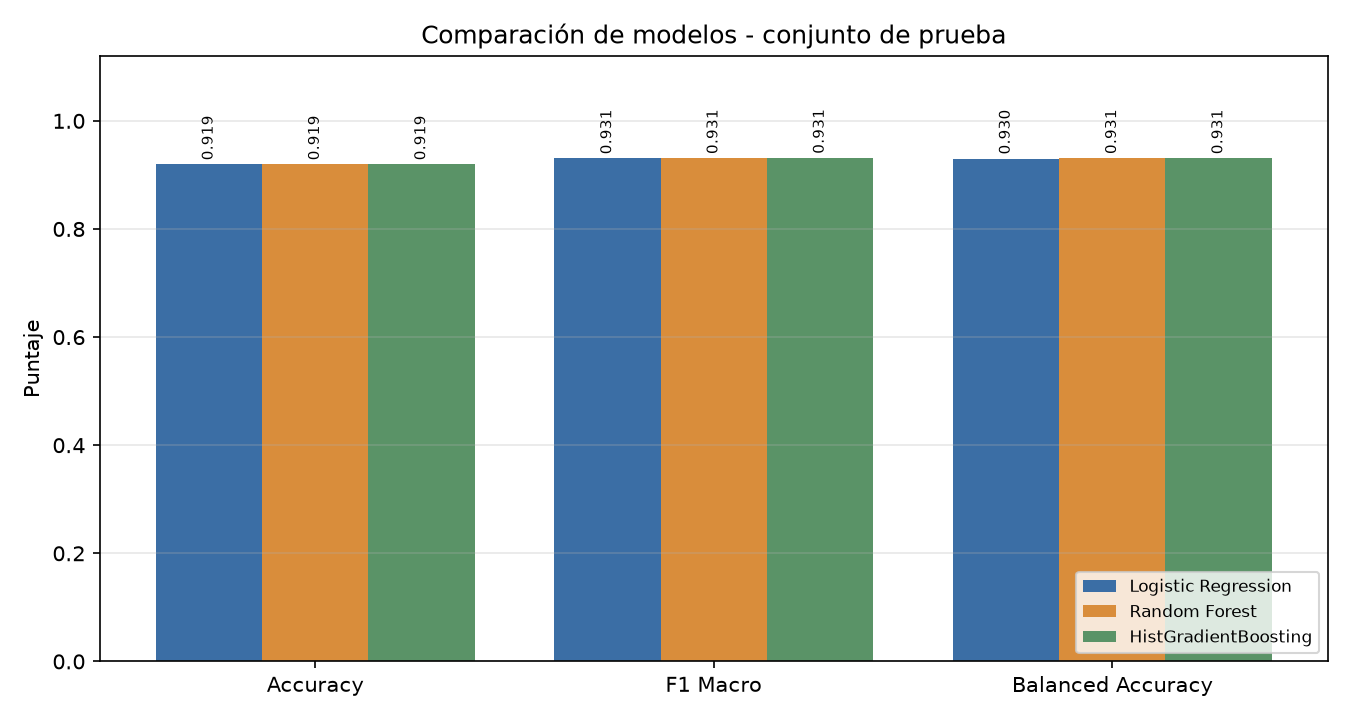
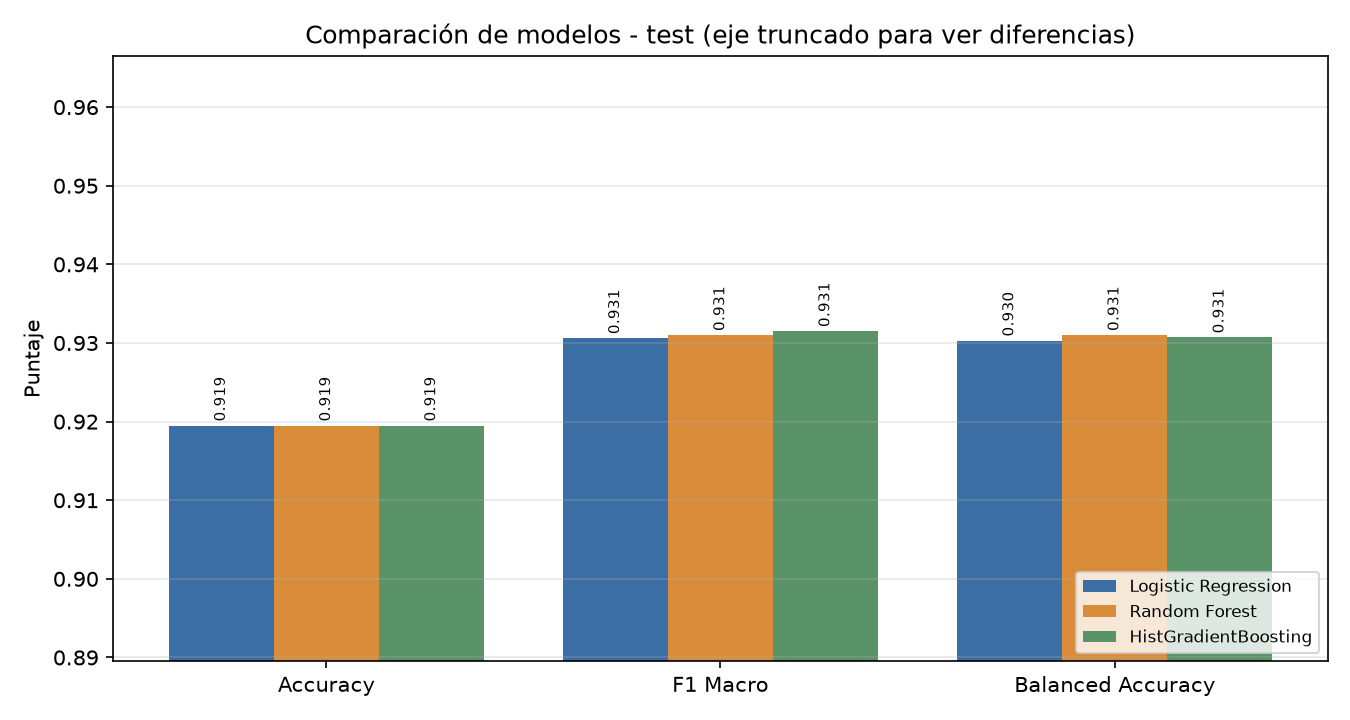
fix(figuras): eje truncado en comparacion de test para visibilizar diferencias

diff --git a/src/evaluate.py b/src/evaluate.py
@@ -48,9 +48,10 @@ def plot_model_comparison(comparison: pd.DataFrame, path: Path) -> Path:
 
     ax.set_xticks(x)
     ax.set_xticklabels(labels)
-    ax.set_ylim(0, 1.12)
+    values_all = comparison[metrics].astype(float).to_numpy().ravel()
+    ax.set_ylim(values_all.min() - 0.03, values_all.max() + 0.035)
     ax.set_ylabel("Puntaje")
-    ax.set_title("Comparación de modelos - conjunto de prueba")
+    ax.set_title("Comparación de modelos - test (eje truncado para ver diferencias)")
     ax.legend(loc="lower right", fontsize=8)
     ax.grid(axis="y", alpha=0.3)
     fig.tight_layout()

diff --git a/outputs/reports/sprint2/reporte_sprint2.md b/outputs/reports/sprint2/reporte_sprint2.md
@@ -29,9 +29,9 @@ no filtrar información del conjunto de prueba.
 
 | modelo | accuracy | f1_macro | f1_weighted | balanced_accuracy | precision_macro | recall_macro | train_seconds |
 |---|---|---|---|---|---|---|---|
-| Logistic Regression | 0.919 | 0.931 | 0.920 | 0.930 | 0.931 | 0.930 | 0.103 |
-| Random Forest | 0.919 | 0.931 | 0.919 | 0.931 | 0.931 | 0.931 | 0.364 |
-| HistGradientBoosting | 0.919 | 0.931 | 0.919 | 0.931 | 0.932 | 0.931 | 0.432 |
+| Logistic Regression | 0.919 | 0.931 | 0.920 | 0.930 | 0.931 | 0.930 | 0.106 |
+| Random Forest | 0.919 | 0.931 | 0.919 | 0.931 | 0.931 | 0.931 | 0.366 |
+| HistGradientBoosting | 0.919 | 0.931 | 0.919 | 0.931 | 0.932 | 0.931 | 0.431 |
 
 ### Comparación de métricas en test
 
@@ -43,9 +43,9 @@ La coincidencia media entre las predicciones de los modelos es **96.05%**: compa
 
 | modelo | F1 macro medio | Desv. estándar | Folds |
 |---|---|---|---|
-| Logistic Regression | 0.9360 | 0.003100 | 0.9378 · 0.9337 · 0.9336 · 0.9336 · 0.9412 |
-| Random Forest | 0.9352 | 0.001600 | 0.9373 · 0.9337 · 0.9344 · 0.9337 · 0.9368 |
-| HistGradientBoosting | 0.9429 | 0.003200 | 0.9430 · 0.9457 · 0.9429 · 0.9370 · 0.9459 |
+| Logistic Regression | 0.9360 | 0.0031 | 0.9378 · 0.9337 · 0.9336 · 0.9336 · 0.9412 |
+| Random Forest | 0.9352 | 0.0016 | 0.9373 · 0.9337 · 0.9344 · 0.9337 · 0.9368 |
+| HistGradientBoosting | 0.9429 | 0.0032 | 0.9430 · 0.9457 · 0.9429 · 0.9370 · 0.9459 |
 
 ### F1 macro con validación cruzada
 
